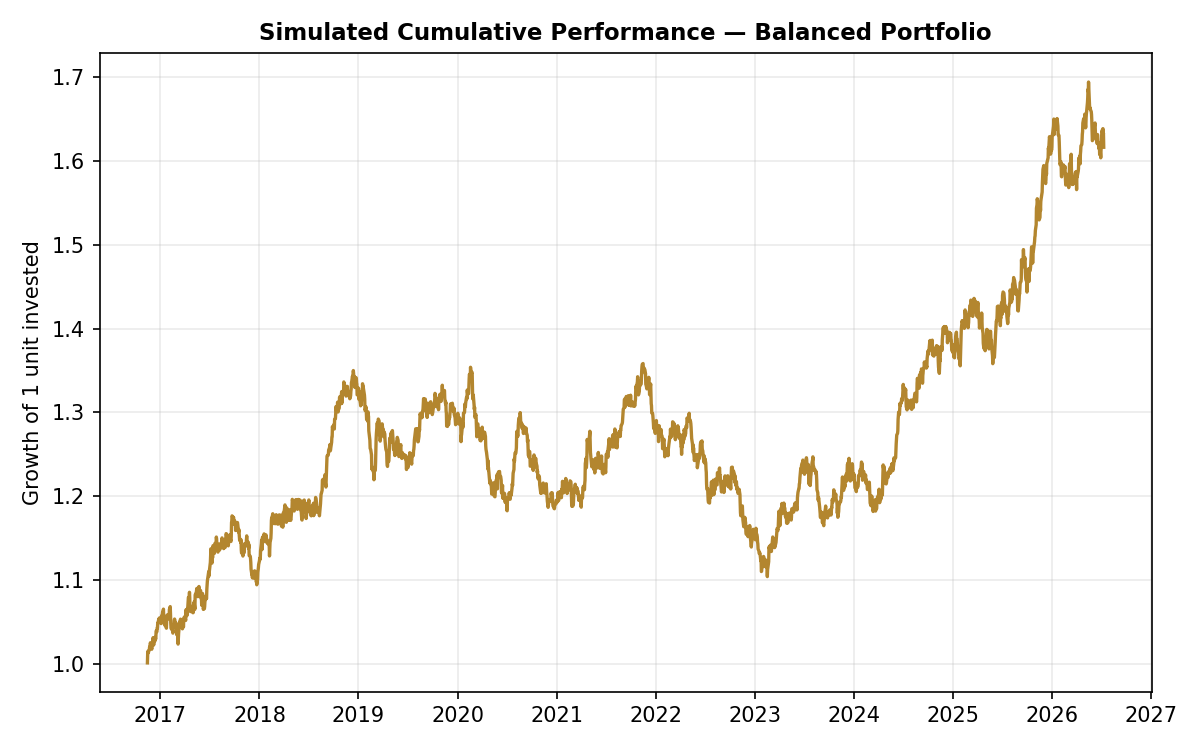
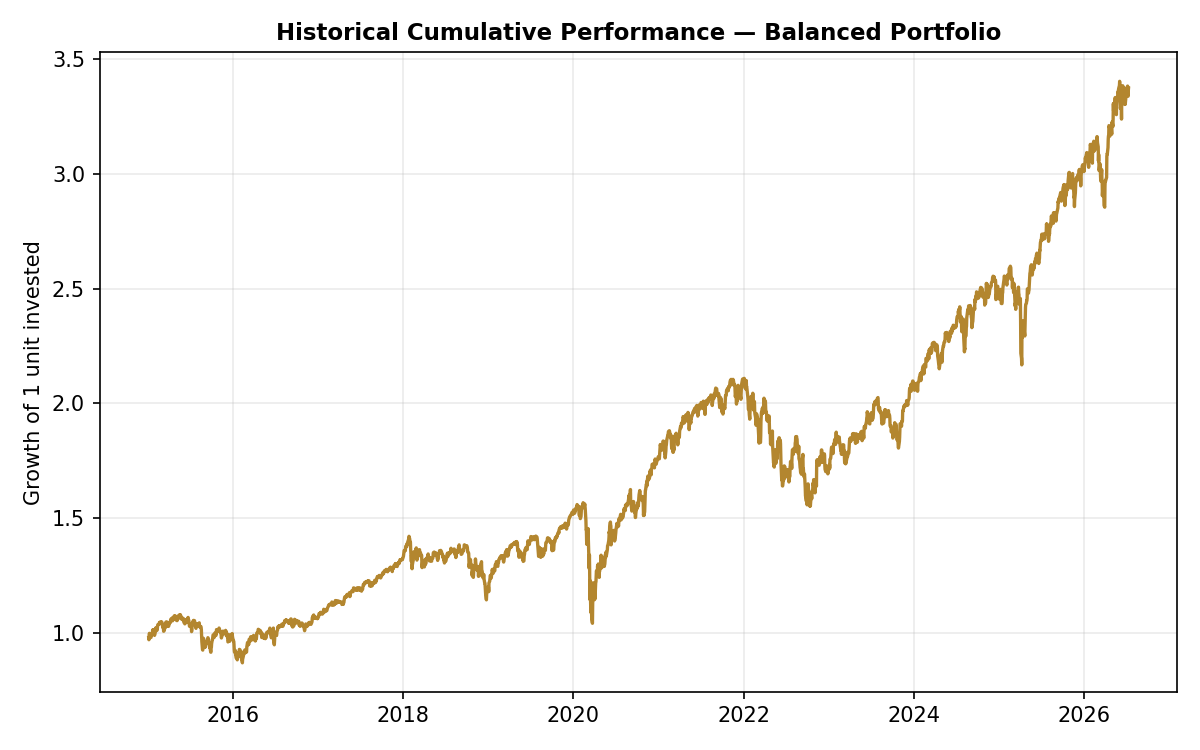
Fix yfinance threading bug; update charts with live historical data

diff --git a/src/data_loader.py b/src/data_loader.py
@@ -43,7 +43,11 @@ def load_market_data(start="2015-01-01", end=None):
         import yfinance as yf
 
         tickers = list(TICKERS.values())
-        data = yf.download(tickers, start=start, end=end, progress=False)["Close"]
+        # threads=False avoids a known yfinance issue where concurrent
+        # downloads write to its internal SQLite cache at the same time,
+        # raising "OperationalError: database is locked".
+        data = yf.download(tickers, start=start, end=end, progress=False,
+                            threads=False)["Close"]
 
         if data.empty or data.isna().all().all():
             raise ValueError("Empty data returned by yfinance.")